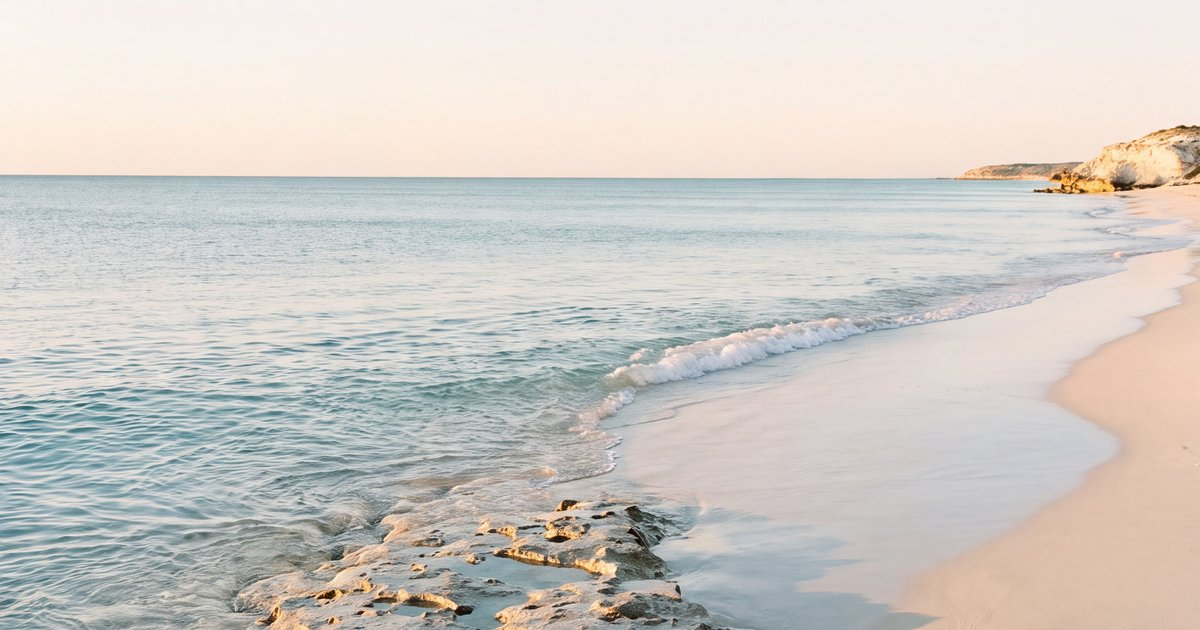
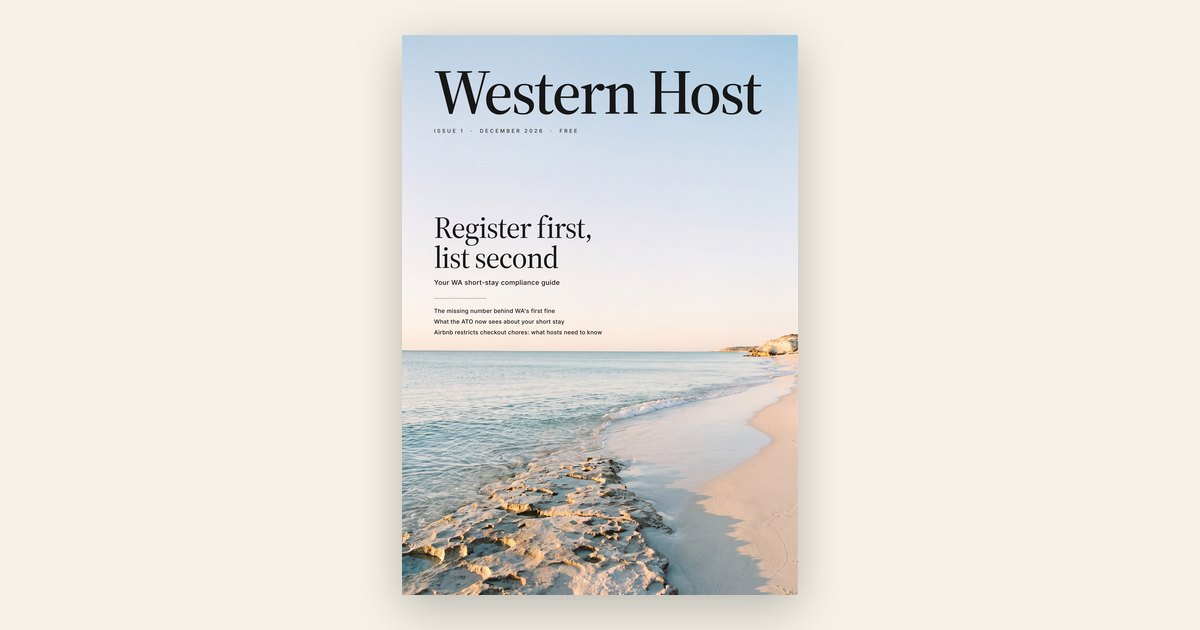
Western Host: the real front cover (page 1 of the final v32 PDF) on Home and the issue page, 2x WebP + JPEG, linked to the PDF, share image updated; design only, words unchanged (msg 3011)

diff --git a/index.html b/index.html
@@ -45,7 +45,7 @@
         <p class="lede-actions"><a class="btn" href="/subscribe/">Get it free each month</a>
            <a class="btn ghost" href="/downloads/Western-Host-2026-12-Issue-1.pdf" download>Download the issue (PDF, 10.7 MB)</a></p>
       </div>
-      <div class="issue-lede-aside"><figure class="cover cover-small"><div class="cover-img"><img src="/web-images/WH-cover-1-beach-golden-hour.jpg" alt="Western Host Issue 1 cover: a Western Australian beach at golden hour" width="1131" height="1600" loading="lazy"></div></figure></div>
+      <div class="issue-lede-aside"><figure class="cover cover-small"><a class="cover-link" href="/downloads/Western-Host-2026-12-Issue-1.pdf" download title="Download the issue (PDF, 10.7 MB)"><div class="cover-img"><picture><source type="image/webp" srcset="/web-images/WH-issue-1-front-cover-1280.webp 1280w, /web-images/WH-issue-1-front-cover-640.webp 640w" sizes="(min-width:860px) 360px, 70vw"><img src="/web-images/WH-issue-1-front-cover-1280.jpg" srcset="/web-images/WH-issue-1-front-cover-1280.jpg 1280w, /web-images/WH-issue-1-front-cover-640.jpg 640w" sizes="(min-width:860px) 360px, 70vw" alt="Western Host Issue 1, December 2026, front cover" width="1280" height="1810" loading="lazy" decoding="async"></picture></div></a></figure></div>
     </section><section class="toc" aria-labelledby="toc-h"><h2 id="toc-h" class="toc-head">In this issue</h2><ol class="toc-list"><li class="toc-item lead"><a href="/issues/2026-12/register-first-list-second/"><span class="toc-kicker">Lead feature</span><span class="toc-title">Register first, list second: your WA compliance guide</span><span class="toc-sf">Western Australia now fines hosts who get the basics wrong. This is the full, practical guide to being legal today: who registers, what it costs, wher…</span><span class="toc-rt">10 min read</span></a></li><li class="toc-item"><a href="/issues/2026-12/the-rules/"><span class="toc-kicker">The Rules</span><span class="toc-title">WA's short-stay rules now carry real penalties</span><span class="toc-sf">WA's first short-stay infringement arrived in August. From registration numbers to planning approvals and renewals, here are five developments worth c…</span><span class="toc-rt">4 min read</span></a></li><li class="toc-item"><a href="/issues/2026-12/perth-by-the-numbers/"><span class="toc-kicker">Perth by the Numbers</span><span class="toc-title">What 5,438 recently reviewed Perth listings reveal</span><span class="toc-sf">A Western Host analysis of public Airbnb listing data for the 30 Perth metropolitan councils: how many listings were recently reviewed, how many are w…</span><span class="toc-rt">2 min read</span></a></li><li class="toc-item"><a href="/issues/2026-12/ato-platform-reporting/"><span class="toc-kicker">Money · Tax and reporting</span><span class="toc-title">Platforms now report your short-stay income to the ATO</span><span class="toc-sf">Since July 2023, booking platforms have given the ATO regular information about short-stay transactions. Here is what owners must declare, what may be…</span><span class="toc-rt">9 min read</span></a></li><li class="toc-item"><a href="/issues/2026-12/peak-season-checklist/"><span class="toc-kicker">Practical Toolkit</span><span class="toc-title">A 25-point check before Perth's peak season</span><span class="toc-sf">Perth's busiest short-stay months run from December to February, on hot days, full pools and a live bushfire season. This one-page audit sorts the leg…</span><span class="toc-rt">7 min read</span></a></li><li class="toc-item"><a href="/issues/2026-12/airbnb-house-rules/"><span class="toc-kicker">The Platforms</span><span class="toc-title">Airbnb restricts checkout chores: what hosts need to know</span><span class="toc-sf">For bookings made from 20 November 2026, Airbnb's new policy generally prohibits demanding substantial checkout chores, including stripping beds and w…</span><span class="toc-rt">4 min read</span></a></li><li class="toc-item"><a href="/issues/2026-12/the-basket-queen-bed/"><span class="toc-kicker">The Basket</span><span class="toc-title">What it costs to dress one queen bed</span><span class="toc-sf">For Perth and WA hosts: we priced one queen bedroom's sheets, quilt, pillows, protector, towels and amenities from supplier product pages on 17 Novemb…</span><span class="toc-rt">10 min read</span></a></li><li class="toc-item"><a href="/issues/2026-12/next-60-days/"><span class="toc-kicker">Next 60 Days</span><span class="toc-title">Perth's summer dates worth planning around</span><span class="toc-sf">From Boxing Day cricket to school holidays and the opening of Fringe World, Perth's summer calendar brings dates worth watching. Here is what to check…</span><span class="toc-rt">2 min read</span></a></li><li class="toc-item"><a href="/issues/2026-12/ask-western-host/"><span class="toc-kicker">Ask Western Host</span><span class="toc-title">Renting, granny flats and the 90-night rule</span><span class="toc-sf">Three common short-stay registration questions, answered using the WA Government's official guidance. This month: operating from a rental, counting th…</span><span class="toc-rt">3 min read</span></a></li><li class="toc-item"><a href="/issues/2026-12/case-file-missing-number/"><span class="toc-kicker">Case File</span><span class="toc-title">The missing number behind WA's first fine</span><span class="toc-sf">In August, Consumer Protection announced its first A$2,000 infringement under WA's short-stay laws. The allegation concerned a missing registration nu…</span><span class="toc-rt">3 min read</span></a></li></ol></section><section class="signup" aria-labelledby="su-h">
       <h2 id="su-h">Get Western Host free every month</h2>
       <p>One issue a month, by email. Unsubscribe any time.</p>

diff --git a/assets/css/site.css b/assets/css/site.css
@@ -20,6 +20,8 @@
   --hair:#D8D1C2; --rule:#C9C2B3; --accent:#0B6E8F; --accent-2:#095972; --ochre:#B07D22;
   --onaccent:#FFFFFF; --footbg:#1B1B1A; --foottext:#F0EBDF; --footlink:#A7D6E6; --footmuted:#A39C90; --foothair:rgba(240,235,223,.24);
   --shadow:0 1px 2px rgba(27,27,26,.05);
+  --cover-shadow:0 14px 34px rgba(27,27,26,.18), 0 2px 6px rgba(27,27,26,.10);
+  --cover-shadow-hover:0 20px 44px rgba(27,27,26,.22), 0 3px 8px rgba(27,27,26,.12);
   --serif:"Source Serif 4", Georgia, "Times New Roman", serif;
   --sans:"Poppins", system-ui, -apple-system, "Segoe UI", Roboto, sans-serif;
   --maxw:1140px; --measure:40rem;
@@ -31,6 +33,8 @@
   --hair:#36312A; --rule:#3C372F; --accent:#5FC0DE; --accent-2:#8AD4ED; --ochre:#E0AE52;
   --onaccent:#0E1316; --footbg:#0F0C09; --foottext:#ECE6DA; --footlink:#8AD4ED; --footmuted:#9B9488; --foothair:rgba(236,230,218,.22);
   --shadow:0 1px 2px rgba(0,0,0,.4);
+  --cover-shadow:0 0 0 1px rgba(236,230,218,.08), 0 16px 38px rgba(0,0,0,.6), 0 2px 6px rgba(0,0,0,.45);
+  --cover-shadow-hover:0 0 0 1px rgba(236,230,218,.12), 0 22px 48px rgba(0,0,0,.65), 0 3px 8px rgba(0,0,0,.5);
   color-scheme:dark;
 }}
 [data-theme="dark"]{
@@ -38,6 +42,8 @@
   --hair:#36312A; --rule:#3C372F; --accent:#5FC0DE; --accent-2:#8AD4ED; --ochre:#E0AE52;
   --onaccent:#0E1316; --footbg:#0F0C09; --foottext:#ECE6DA; --footlink:#8AD4ED; --footmuted:#9B9488; --foothair:rgba(236,230,218,.22);
   --shadow:0 1px 2px rgba(0,0,0,.4);
+  --cover-shadow:0 0 0 1px rgba(236,230,218,.08), 0 16px 38px rgba(0,0,0,.6), 0 2px 6px rgba(0,0,0,.45);
+  --cover-shadow-hover:0 0 0 1px rgba(236,230,218,.12), 0 22px 48px rgba(0,0,0,.65), 0 3px 8px rgba(0,0,0,.5);
   color-scheme:dark;
 }
 
@@ -155,15 +161,16 @@ figcaption .credit{display:block;font-size:.72rem;color:var(--small);margin-top:
 
 /* ---------- home: issue lede ---------- */
 .issue-lede{display:grid;gap:26px;align-items:start;margin:34px 0 10px}
-@media(min-width:860px){.issue-lede{grid-template-columns:minmax(0,1.6fr) minmax(0,.9fr)}}
+@media(min-width:860px){.issue-lede{grid-template-columns:minmax(0,1.5fr) minmax(0,1fr);gap:40px}}
 .issue-lede-main .article-title{margin:.35rem 0 .3rem}
 .issue-tag{font-family:var(--sans);font-weight:600;font-size:.92rem;color:var(--accent);letter-spacing:.02em;margin:0}
 .lede-actions{display:flex;flex-wrap:wrap;gap:12px;margin-top:1.2rem}
+/* the real front cover (page 1 of the PDF), 21 Nov 2026 (msg 3011): a proper size beside the text on desktop,
+   centred at about 70 % of the screen on phones; the same figure.cover rules below give it the shadow, corners and link */
 .issue-lede-aside{align-self:start}
-@media(min-width:860px){.issue-lede-aside{max-width:210px;margin-left:auto}}
-figure.cover-small{max-width:190px;margin:0}
-figure.cover-small img{width:100%;border-radius:8px;box-shadow:0 8px 24px rgba(0,0,0,.16)}
-@media(max-width:859px){figure.cover-small{max-width:150px;margin-top:4px}}
+@media(min-width:860px){.issue-lede-aside{max-width:360px;margin-left:auto;padding-top:.4rem}}
+figure.cover-small{margin:0}
+@media(max-width:859px){.issue-lede-aside figure.cover{max-width:70vw;margin:10px auto 6px}}
 .cover-credit{font-family:var(--sans);font-size:.7rem;color:var(--small);margin:.5rem 0 0}
 
 /* ---------- home: contents list ("In this issue") ---------- */
@@ -187,8 +194,15 @@ figure.cover-small img{width:100%;border-radius:8px;box-shadow:0 8px 24px rgba(0
 @media(min-width:820px){.cover-block{grid-template-columns:minmax(0,.9fr) minmax(0,1.1fr)}}
 .issue-card{margin:22px 0 8px}
 figure.cover{margin:0}
-figure.cover img{border-radius:8px;width:100%}
-figure.cover .cover-img{border-radius:8px;overflow:hidden;box-shadow:0 10px 30px rgba(0,0,0,.16)}
+@media(max-width:819px){.issue-card figure.cover{max-width:70vw;margin:0 auto}}
+/* the cover is a link to the PDF (same as the Download button): a plain block, no underline, small radius, soft shadow */
+figure.cover .cover-link{display:block;color:inherit;text-decoration:none;border-radius:6px;-webkit-tap-highlight-color:transparent}
+figure.cover .cover-link:focus-visible{outline:3px solid var(--accent);outline-offset:4px;border-radius:6px}
+figure.cover .cover-img{border-radius:6px;overflow:hidden;box-shadow:var(--cover-shadow);background:var(--surface);transition:box-shadow .25s ease,transform .25s ease}
+figure.cover picture{display:block}
+figure.cover img{display:block;width:100%;height:auto;border-radius:6px;background:var(--surface)}
+@media(hover:hover){figure.cover .cover-link:hover .cover-img{box-shadow:var(--cover-shadow-hover);transform:translateY(-2px)}}
+@media(prefers-reduced-motion:reduce){figure.cover .cover-img{transition:none}figure.cover .cover-link:hover .cover-img{transform:none}}
 .contents{list-style:none;padding:0;margin:0}
 .contents li{display:flex;gap:16px;padding:14px 0;border-bottom:1px solid var(--rule)}
 .contents .pg{font-family:var(--sans);font-weight:600;font-size:.82rem;color:var(--accent);min-width:3.1em;padding-top:.28em}

diff --git a/issues/2026-12/index.html b/issues/2026-12/index.html
@@ -35,7 +35,7 @@
     <div class="head-tools"><a class="icon-btn" href="/search/" aria-label="Search the magazine"><svg aria-hidden="true" viewBox="0 0 24 24" width="20" height="20"><circle cx="11" cy="11" r="7" fill="none" stroke="currentColor" stroke-width="2"/><line x1="16.3" y1="16.3" x2="21" y2="21" stroke="currentColor" stroke-width="2" stroke-linecap="round"/></svg></a><button class="icon-btn theme-toggle" type="button" aria-label="Switch between light and dark" aria-pressed="false"><svg class="i-sun" aria-hidden="true" viewBox="0 0 24 24" width="20" height="20"><circle cx="12" cy="12" r="4.5" fill="currentColor"/><g stroke="currentColor" stroke-width="2" stroke-linecap="round"><line x1="12" y1="1.6" x2="12" y2="4"/><line x1="12" y1="20" x2="12" y2="22.4"/><line x1="1.6" y1="12" x2="4" y2="12"/><line x1="20" y1="12" x2="22.4" y2="12"/><line x1="4.4" y1="4.4" x2="6.1" y2="6.1"/><line x1="17.9" y1="17.9" x2="19.6" y2="19.6"/><line x1="4.4" y1="19.6" x2="6.1" y2="17.9"/><line x1="17.9" y1="6.1" x2="19.6" y2="4.4"/></g></svg><svg class="i-moon" aria-hidden="true" viewBox="0 0 24 24" width="20" height="20"><path fill="currentColor" d="M21 12.8A9 9 0 1 1 11.2 3a7 7 0 0 0 9.8 9.8z"/></svg></button></div>
   </div>
 </header><main id="main"><div class="wrap"><section class="cover-block issue-card">
-      <div><figure class="cover"><div class="cover-img"><img src="/web-images/WH-cover-1-beach-golden-hour.jpg" alt="Western Host Issue 1 cover: a Western Australian beach at golden hour" width="1131" height="1600" loading="eager"></div></figure></div>
+      <div><figure class="cover"><a class="cover-link" href="/downloads/Western-Host-2026-12-Issue-1.pdf" download title="Download the issue (PDF, 10.7 MB)"><div class="cover-img"><picture><source type="image/webp" srcset="/web-images/WH-issue-1-front-cover-1280.webp 1280w, /web-images/WH-issue-1-front-cover-640.webp 640w" sizes="(min-width:820px) 500px, 70vw"><img src="/web-images/WH-issue-1-front-cover-1280.jpg" srcset="/web-images/WH-issue-1-front-cover-1280.jpg 1280w, /web-images/WH-issue-1-front-cover-640.jpg 640w" sizes="(min-width:820px) 500px, 70vw" alt="Western Host Issue 1, December 2026, front cover" width="1280" height="1810" loading="eager" decoding="async"></picture></div></a></figure></div>
       <div>
         <p class="kicker">Contents · Issue 1 · December 2026</p>
         <h1 class="article-title">Inside Issue 1 · December 2026</h1>
